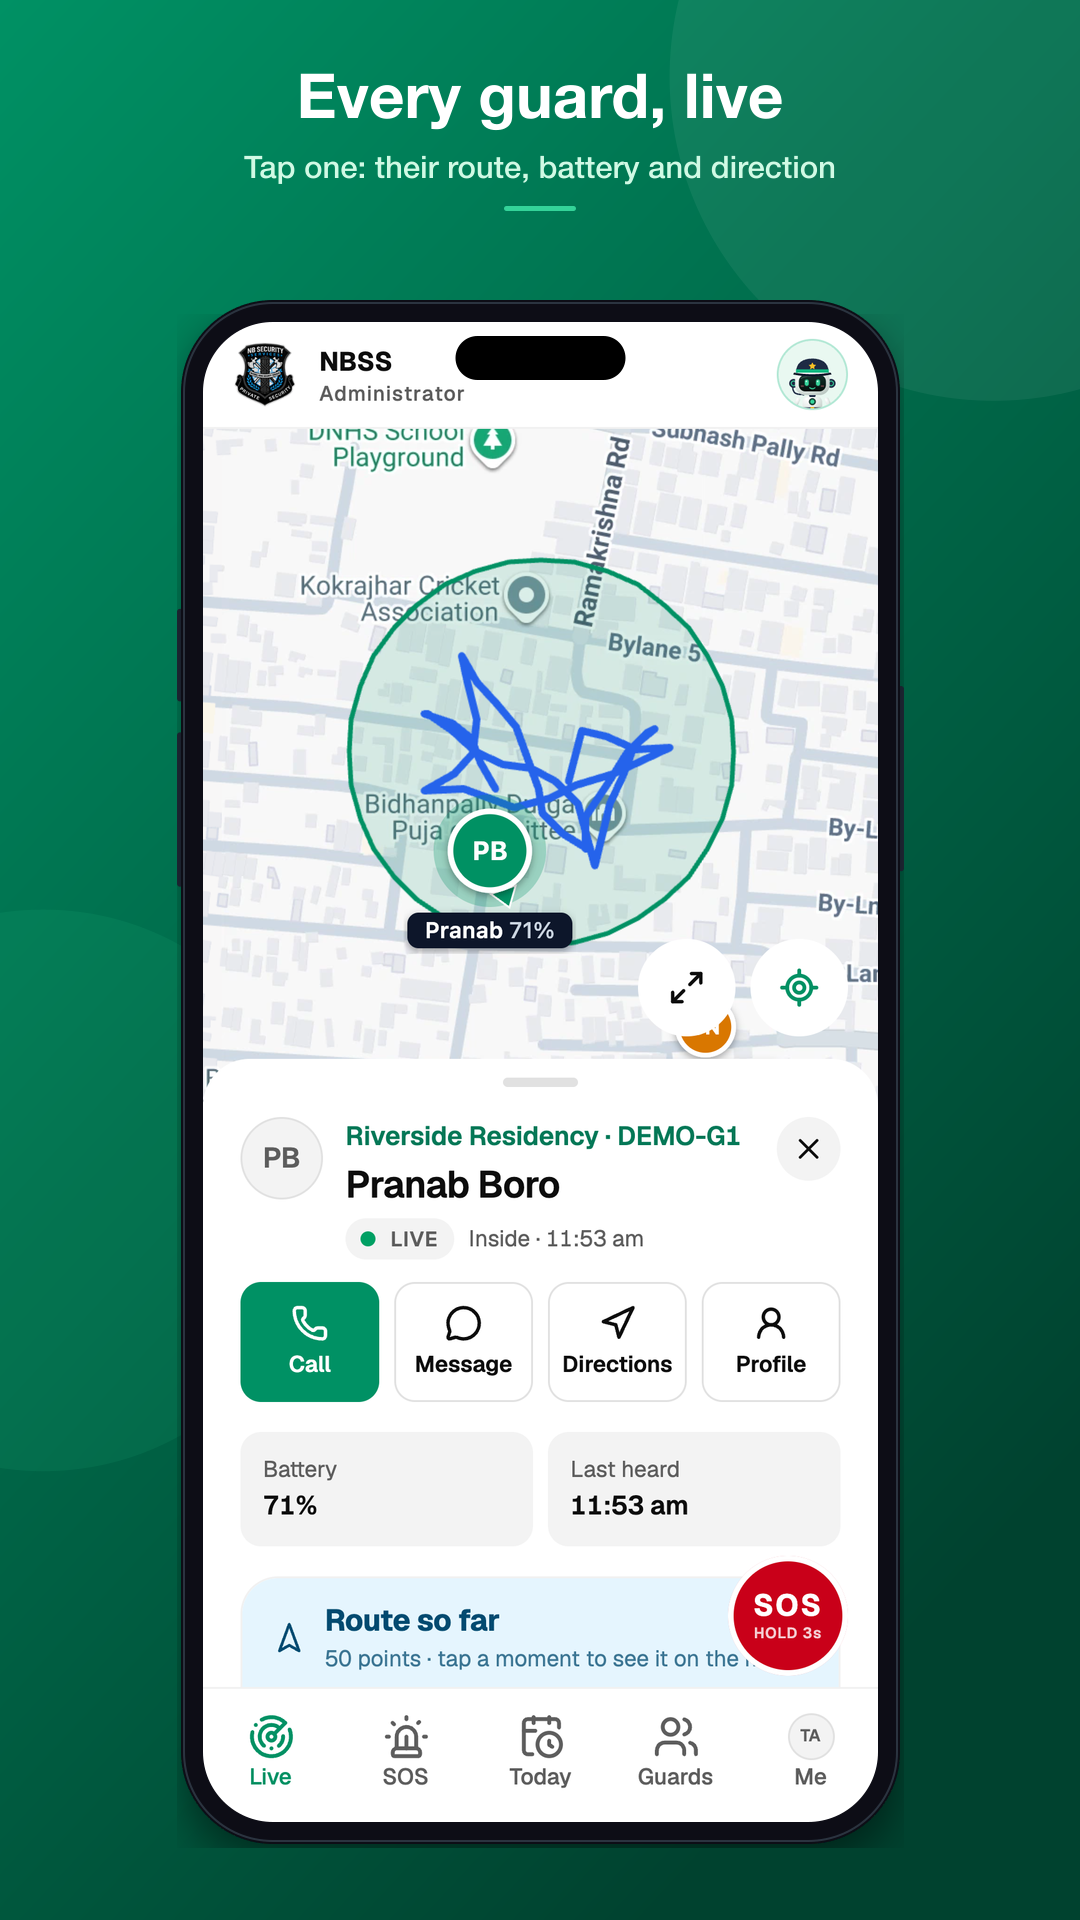
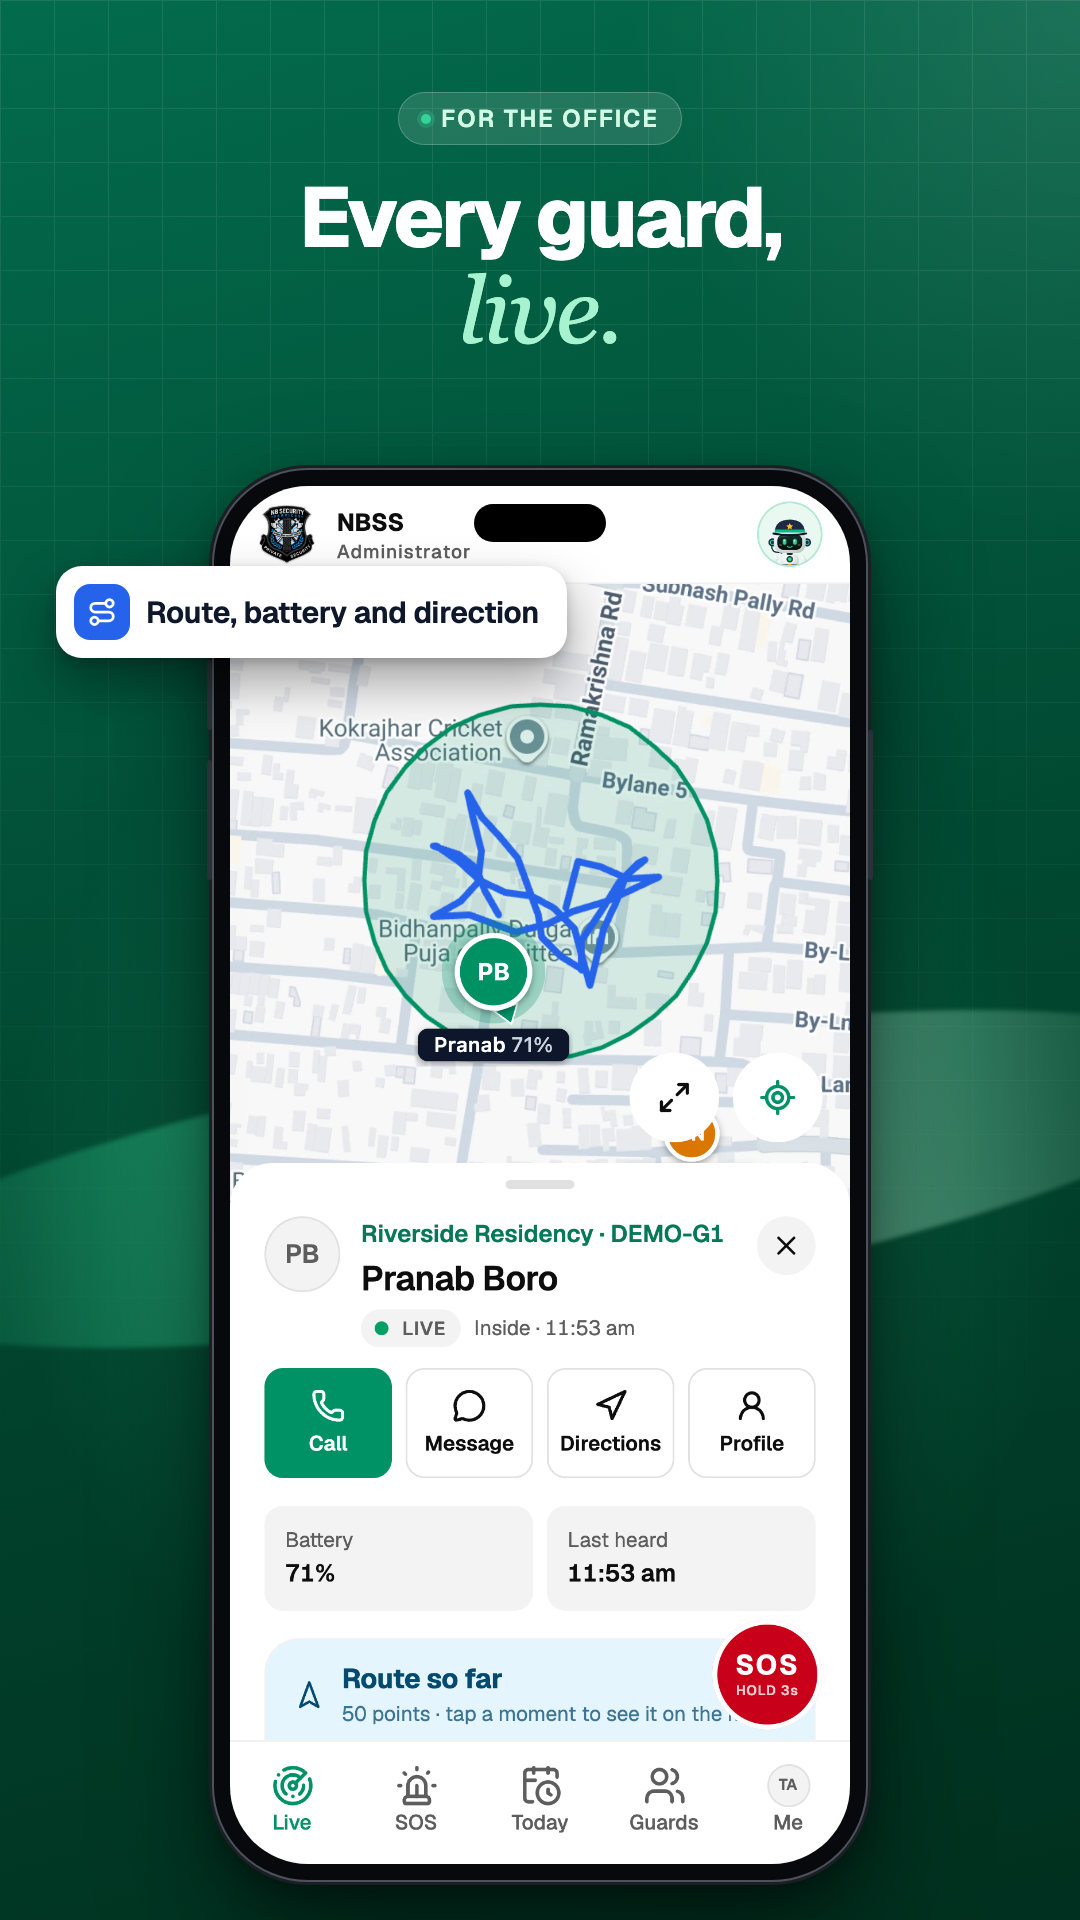
Play screenshots: redesigned layout
Who each screen is for, a two-line headline in Geist with a serif italic
accent, the screen in a shaded device frame on the brand green with a fine
grid and a light sweep, and one callout card naming the feature, placed
clear of what it describes. Rendered by Chrome from HTML so the type and
shadows are real; phone 1080 × 1920, tablet 1600 × 2560.

diff --git a/store/play/README.md b/store/play/README.md
@@ -53,7 +53,7 @@ Everything the Play Console asks for, in the order it asks. Graphics are rebuilt
 
 Upload in number order; 01–08 are the core set, 09 is optional. The raw screens are in
 `raw/` (phone 1080 × 2400, tablet 1600 × 2560): change a headline in
-`scripts/frame-store-screenshots.mjs` and run `pnpm store:screenshots` to rebuild.
+`scripts/frame-store-screenshots.mjs` and run `pnpm store:screenshots` to rebuild (renders with Google Chrome; type is Geist with a Georgia italic accent).
 They were taken on 18 Nov 2026 from the app's web build, signed in as TEST accounts
 with demo guards, a demo client and two made-up sites, all deleted afterwards; no
 real person, phone number or site appears.
